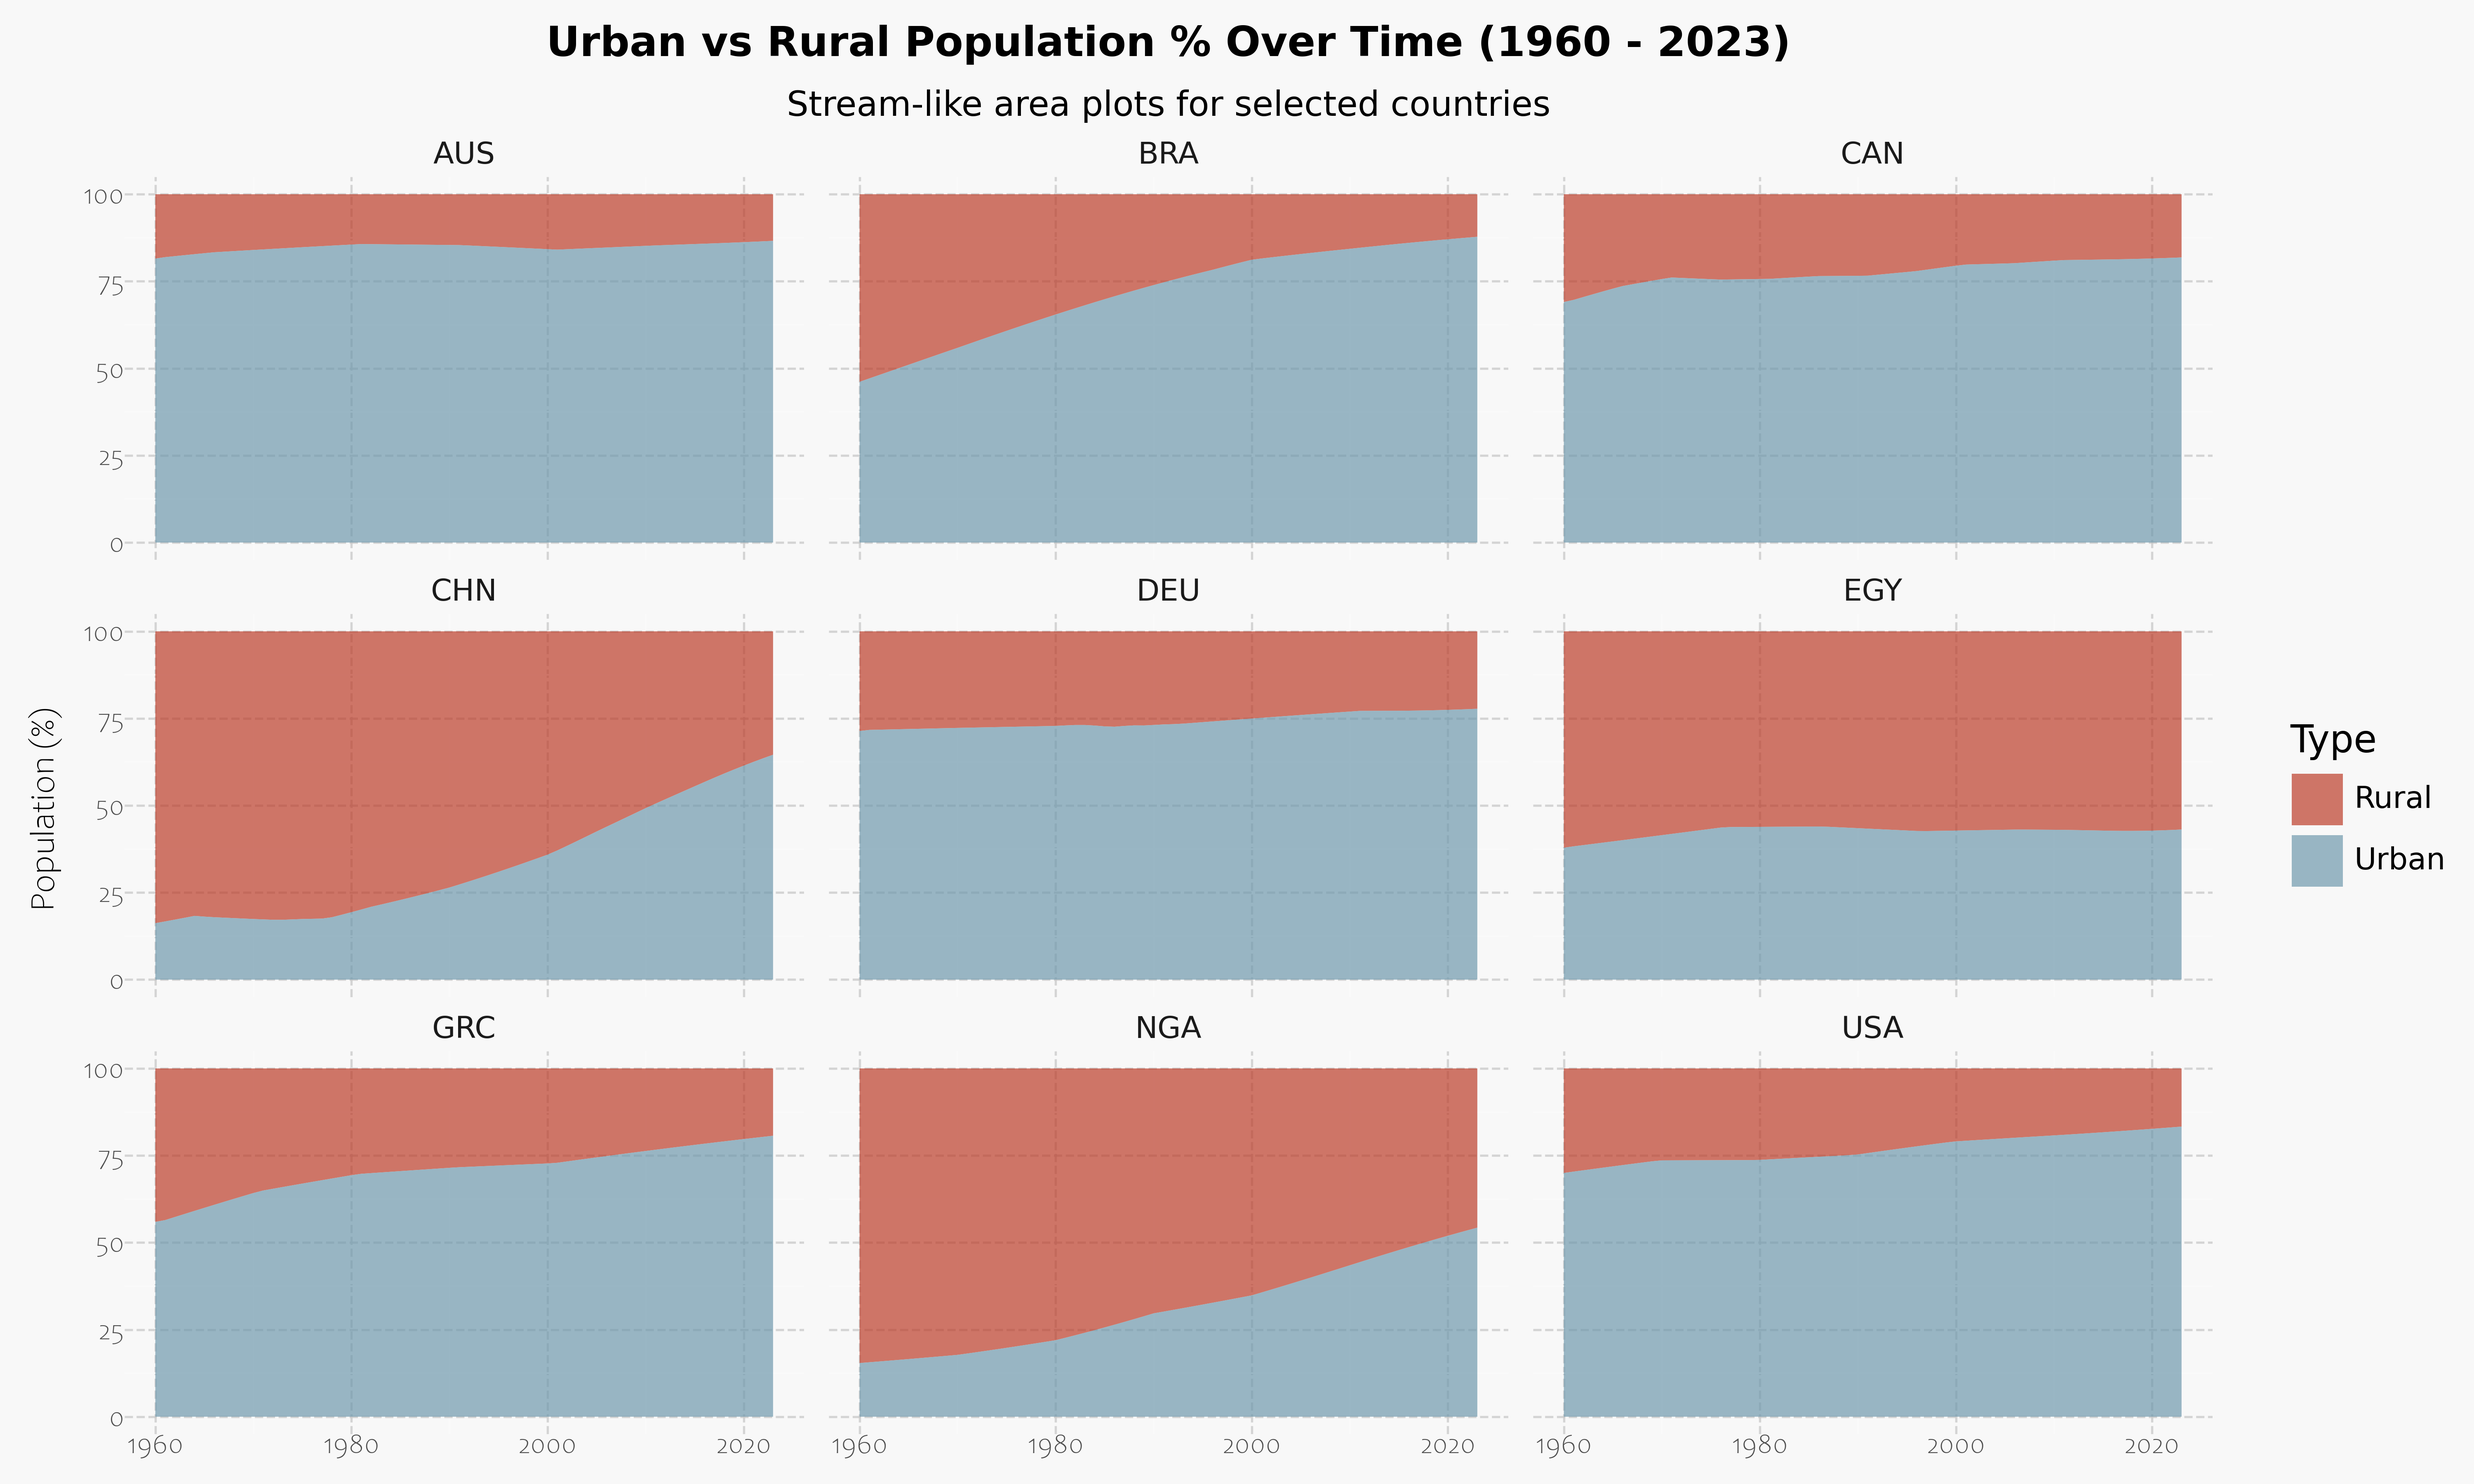
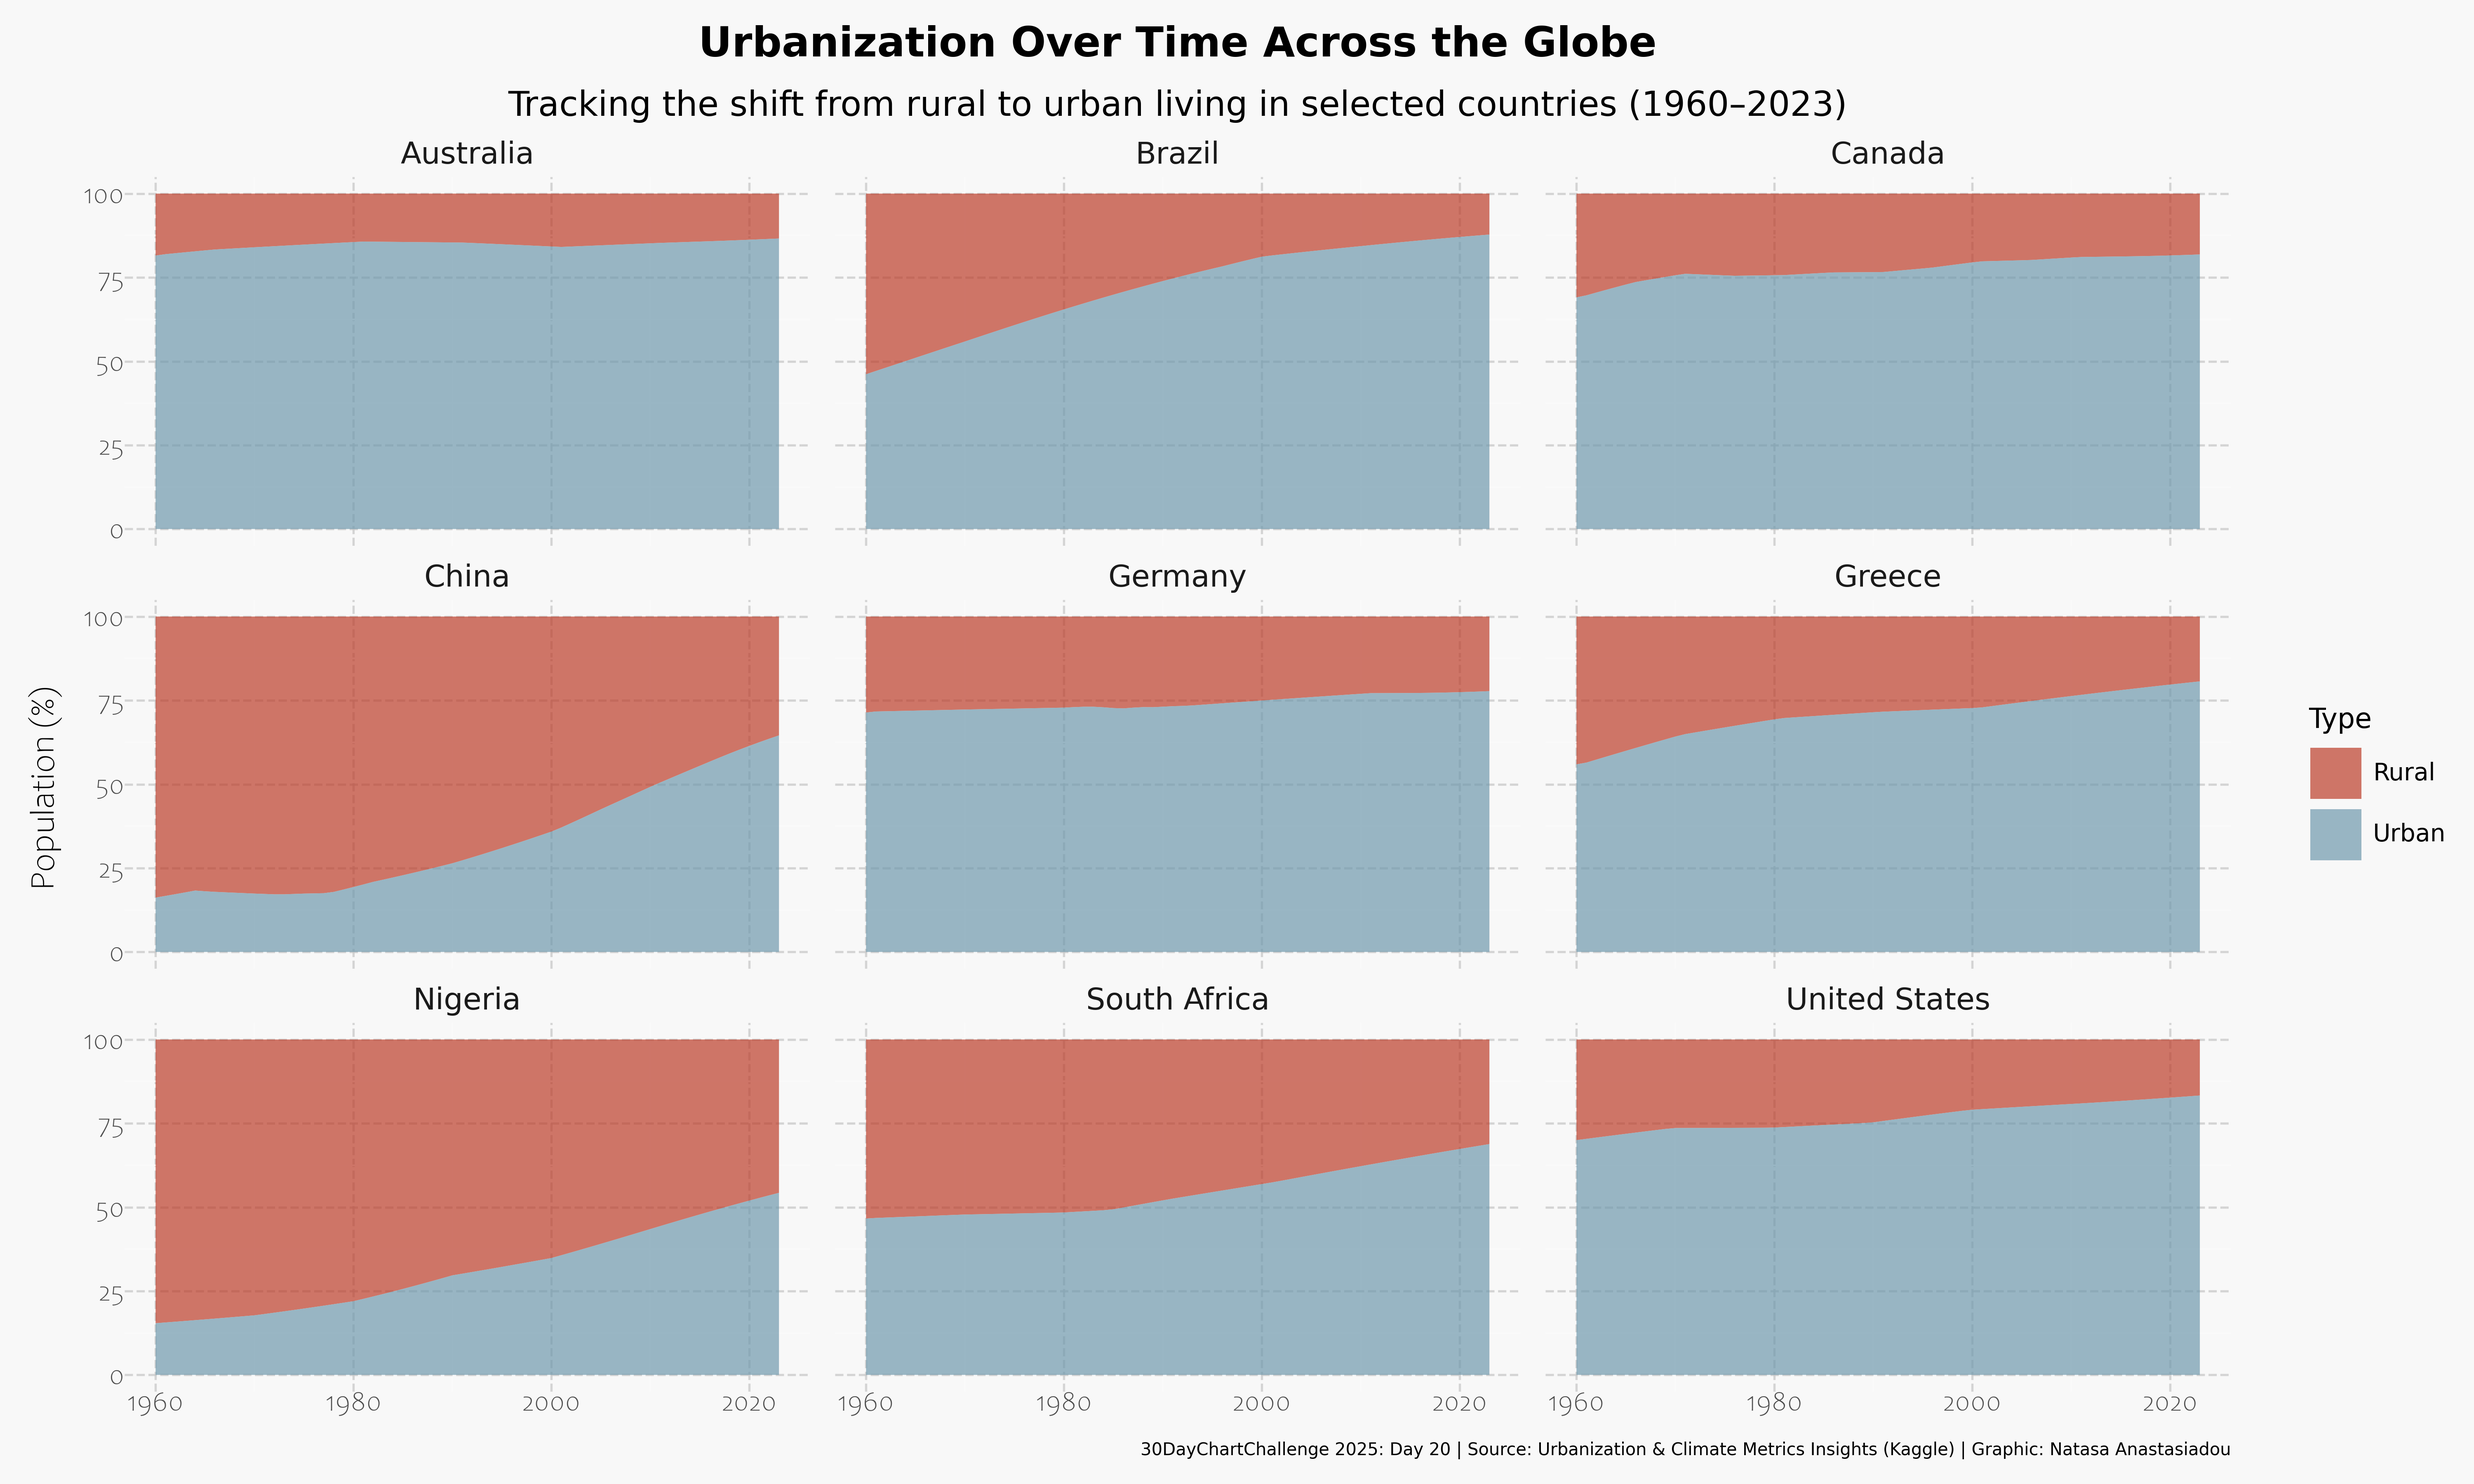
20

diff --git a/2025/20/20_day.py b/2025/20/20_day.py
@@ -14,8 +14,8 @@ df['year'].unique()
 
 # clean data ------
 
-df_long = df[['year', 'country_code', 'urban_pop_perc', 'rural_pop_perc']].melt(
-    id_vars=['year', 'country_code'],
+df_long = df[['year', 'country', 'urban_pop_perc', 'rural_pop_perc']].melt(
+    id_vars=['year', 'country'],
     value_vars=['urban_pop_perc', 'rural_pop_perc'],
     var_name='Population_Type',
     value_name='Percentage'
@@ -25,9 +25,12 @@ df_long = df[['year', 'country_code', 'urban_pop_perc', 'rural_pop_perc']].melt(
 df_long['Population_Type'] = df_long['Population_Type'].str.replace('_pop_perc', '').str.capitalize()
 
 
-selected_countries = ['NGA', 'EGY', 'USA', 'CAN', 'CHN', 'DEU', 'GRC', 'BRA', 'AUS'] 
+# selected_countries = ['NGA', 'EGY', 'USA', 'CAN', 'CHN', 'DEU', 'GRC', 'BRA', 'AUS'] 
 
-df_filtered = df_long[df_long['country_code'].isin(selected_countries)]
+selected_countries = ['United States', 'China', 'Greece', 'Germany', 'Brazil', 'Australia', 'Nigeria', 'Canada', 'South Africa']
+
+
+df_filtered = df_long[df_long['country'].isin(selected_countries)]
 
 
 # Plot --------
@@ -38,7 +41,7 @@ g = (
 
     geom_area(alpha=0.7) +
 
-    facet_wrap('~country_code') +  
+    facet_wrap('~country') +  
 
     scale_fill_manual(values={"Urban": "#6F99AD", "Rural": "#BC3C29"}) + # Custom colors for each quadrant
 
@@ -59,7 +62,7 @@ g = (
         
         plot_title = element_text(size = 12, weight = 'bold', ha = 'center'),
         plot_subtitle = element_text(size = 10, ha = 'center'),
-        plot_caption = element_text(size = 7, ha = 'right'),
+        plot_caption = element_text(size = 5, ha = 'right'),
         
         panel_grid_major = element_line(color = '#c9c9c9', alpha = 0.75, size = 0.65, linetype="dashed"),
         plot_background = element_rect(fill = '#f8f8f8', color = '#f8f8f8'),
